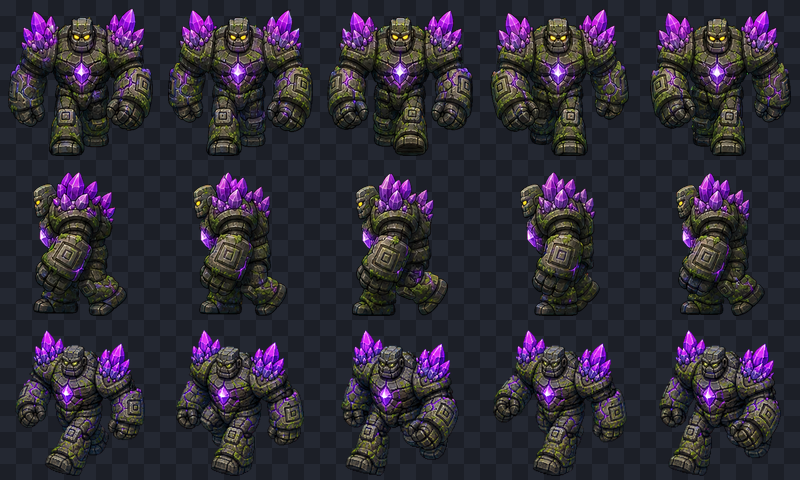
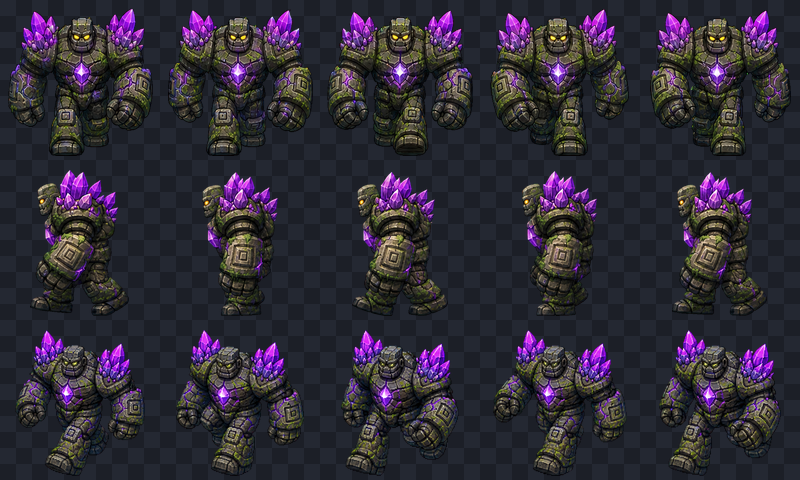
1

diff --git a/src/scenes/GameScene.js b/src/scenes/GameScene.js
@@ -63,7 +63,9 @@ export class GameScene extends Phaser.Scene {
   create() {
     const S = this.S = this.registry.get('save');
     const forceTutorial = import.meta.env.DEV && new URLSearchParams(window.location.search).has('tutorial');
-    this.firstRunTutorial = forceTutorial || (S.tutorialVersion || 0) < CURRENT_TUTORIAL_VERSION;
+    // 波 1 的合成教学每局都执行；首访状态只用于免费 2 倍速，不影响初始塔种。
+    this.isFirstOnboarding = forceTutorial || (S.tutorialVersion || 0) < CURRENT_TUTORIAL_VERSION;
+    this.firstRunTutorial = true;
     // ---- 局内状态 ----
     this.gold = Math.round((40 + 20 * tier(S, 'startGold')) * (S.coupon ? 1.5 : 1));
     if (S.coupon) { S.coupon = false; writeSave(S); }
@@ -87,7 +89,7 @@ export class GameScene extends Phaser.Scene {
     this.lastStandText = null;
     this.deathWave = 0;
     this.adGifts = 0;
-    this.runSpeedUnlocked = this.firstRunTutorial || tier(S, 'speed2x') > 0;
+    this.runSpeedUnlocked = this.isFirstOnboarding || tier(S, 'speed2x') > 0;
     this.speedMult = 1;
     this.slowmoT = 0;
     this.atkBuffT = 0;
@@ -125,7 +127,8 @@ export class GameScene extends Phaser.Scene {
     this.leakStats = {};
     this.dmgCount = 0;
     this.coinCount = 0;
-    this.tutorialStep = this.firstRunTutorial ? 'waitForEnemy' : null;
+    this.tutorialStep = 'waitForEnemy';
+    this.tutorialBuildPending = false;
     this.tutorialElem = 'fire';
     this.tutorialTowerA = null;
     this.tutorialTowerB = null;
@@ -162,8 +165,7 @@ export class GameScene extends Phaser.Scene {
       return;
     }
     Poki.gameplayStart();
-    if (this.firstRunTutorial) this.startFirstRunTutorial();
-    else this.startPrep();
+    this.startFirstRunTutorial();
   }
 
   // ================= 场景搭建 =================
@@ -593,21 +595,14 @@ export class GameScene extends Phaser.Scene {
 
   // ================= 开局预置 =================
   presetTowers() {
-    if (this.firstRunTutorial) {
-      const a = this.slots[1], b = this.slots[2];
-      this.tutorialTowerA = new Tower(this, a, this.tutorialElem, 1);
-      this.tutorialTowerB = new Tower(this, b, this.tutorialElem, 1);
-      a.tower = this.tutorialTowerA;
-      b.tower = this.tutorialTowerB;
-      this.towers.push(this.tutorialTowerA, this.tutorialTowerB);
-      return;
-    }
-    const elems = unlockedElements(this.S, this.wave);
-    const elem = Phaser.Utils.Array.GetRandom(elems);
+    const elem = Math.random() < 0.5 ? 'fire' : 'lightning';
+    this.tutorialElem = elem;
     const a = this.slots[1], b = this.slots[2]; // 第一排中间相邻两格
-    a.tower = new Tower(this, a, elem, 1);
-    b.tower = new Tower(this, b, elem, 1);
-    this.towers.push(a.tower, b.tower);
+    this.tutorialTowerA = new Tower(this, a, elem, 1);
+    this.tutorialTowerB = new Tower(this, b, elem, 1);
+    a.tower = this.tutorialTowerA;
+    b.tower = this.tutorialTowerB;
+    this.towers.push(this.tutorialTowerA, this.tutorialTowerB);
   }
 
   startFirstRunTutorial() {
@@ -836,6 +831,45 @@ export class GameScene extends Phaser.Scene {
     toast(this, W / 2, 390, t('game.tutorialReady'), '#8ff0b6', 25);
     this.buyBtn.setEnabled(true);
     this.updateUI();
+    this.startTutorialBuildCue();
+  }
+
+  startTutorialBuildCue() {
+    this.tutorialBuildPending = true;
+    const bannerY = this.layout?.landscape
+      ? Math.min(690, this.layout.viewH - 52)
+      : 970;
+    this.setTutorialInstruction('game.tutorialBuild', bannerY);
+    this.clearTutorialHighlight();
+    this.tutorialHighlight = this.add.rectangle(this.buyBtn.x, this.buyBtn.y, 1, 1, 0xffdd66, 0.08)
+      .setStrokeStyle(6, 0xffdd66, 1)
+      .setDepth(2390);
+    this.syncTutorialBuildHighlight();
+    this.tweens.add({
+      targets: this.tutorialHighlight,
+      alpha: 0.28,
+      duration: 460,
+      yoyo: true,
+      repeat: -1,
+      ease: 'Sine.InOut',
+    });
+  }
+
+  syncTutorialBuildHighlight() {
+    if (!this.tutorialBuildPending || !this.tutorialHighlight || !this.buyBtn) return;
+    const scaleX = Math.abs(this.buyBtn.scaleX || 1);
+    const scaleY = Math.abs(this.buyBtn.scaleY || 1);
+    this.tutorialHighlight
+      .setPosition(this.buyBtn.x, this.buyBtn.y)
+      .setDisplaySize((this.buyBtn.width || 326) * scaleX + 18, (this.buyBtn.height || 112) * scaleY + 18);
+  }
+
+  completeTutorialBuildPurchase() {
+    if (!this.tutorialBuildPending) return;
+    this.tutorialBuildPending = false;
+    this.clearTutorialHighlight();
+    if (this.tutorialBanner) { this.tutorialBanner.destroy(); this.tutorialBanner = null; }
+    if (this.tutorialText) { this.tutorialText.destroy(); this.tutorialText = null; }
   }
 
   clearHint() {
@@ -1512,6 +1546,7 @@ export class GameScene extends Phaser.Scene {
     Sfx.buy();
     this.clearPendingTowerDraft();
     this.clearHint();
+    this.completeTutorialBuildPurchase();
     if (this.firstRunTutorial && this.tutorialStep === 'place') {
       this.startMergeTutorial(this.tutorialTowerA, placedTower);
     }
@@ -2659,7 +2694,7 @@ export class GameScene extends Phaser.Scene {
   }
 
   autoBuyTick() {
-    if (this.firstRunTutorial || !tier(this.S, 'autoBuy') || this.over || this.dying || this.evolutionChoiceOpen || this.editorMode) return;
+    if (this.firstRunTutorial || this.tutorialBuildPending || !tier(this.S, 'autoBuy') || this.over || this.dying || this.evolutionChoiceOpen || this.editorMode) return;
     this.buyTower(true);
   }
 
@@ -3335,6 +3370,7 @@ export class GameScene extends Phaser.Scene {
   // ================= 主循环 =================
   update(time, delta) {
     this.ensureResponsiveLayout();
+    this.syncTutorialBuildHighlight();
     if (this.over || this.editorMode || this.isPaused || this.settingsOpen) return;
     let dts = (delta / 1000) * this.speedMult;
     if (this.tutorialForcedSlowmo) dts *= 0.5;

diff --git a/index.html b/index.html
@@ -3,8 +3,11 @@
 <head>
 <meta charset="UTF-8">
 <meta name="viewport" content="width=device-width, initial-scale=1.0, maximum-scale=1.0, user-scalable=no, viewport-fit=cover">
+<meta http-equiv="Cache-Control" content="no-cache, no-store, must-revalidate">
+<meta http-equiv="Pragma" content="no-cache">
+<meta http-equiv="Expires" content="0">
 <title>Merge Towers</title>
-<script src="https://game-cdn.poki.com/scripts/v2/poki-sdk.js"></script>
+<script async src="https://game-cdn.poki.com/scripts/v2/poki-sdk.js"></script>
 <style>
   :root { color-scheme: dark; --ink: #061019; --surface: #0e1d2b; --line: #4f7080; --mint: #63d6a3; --gold: #f3c95f; }
   html, body { margin: 0; padding: 0; background: var(--ink); width: 100%; height: 100%; overflow: hidden; }
@@ -44,6 +47,23 @@
     loading.classList.add('hidden');
     setTimeout(function () { loading.remove(); }, 300);
   };
+  window.showLoadingError = function (message) {
+    var percent = document.getElementById('loading-percent');
+    if (percent) percent.textContent = message || 'Loading failed. Please refresh.';
+  };
+  window.addEventListener('error', function (event) {
+    window.showLoadingError('Loading failed. Refreshing...');
+  });
+  window.addEventListener('unhandledrejection', function () {
+    window.showLoadingError('Loading failed. Refreshing...');
+  });
+  setTimeout(function () {
+    var loading = document.getElementById('loading');
+    var percent = document.getElementById('loading-percent');
+    if (!loading || loading.classList.contains('hidden')) return;
+    if (percent && percent.textContent !== '0%') return;
+    window.showLoadingError('Loading failed. Please refresh.');
+  }, 8000);
 </script>
 <script type="module" src="/src/main.js"></script>
 </body>

diff --git a/vite.config.js b/vite.config.js
@@ -1,3 +1,6 @@
 export default {
   base: './',
+  build: {
+    target: 'es2018',
+  },
 };